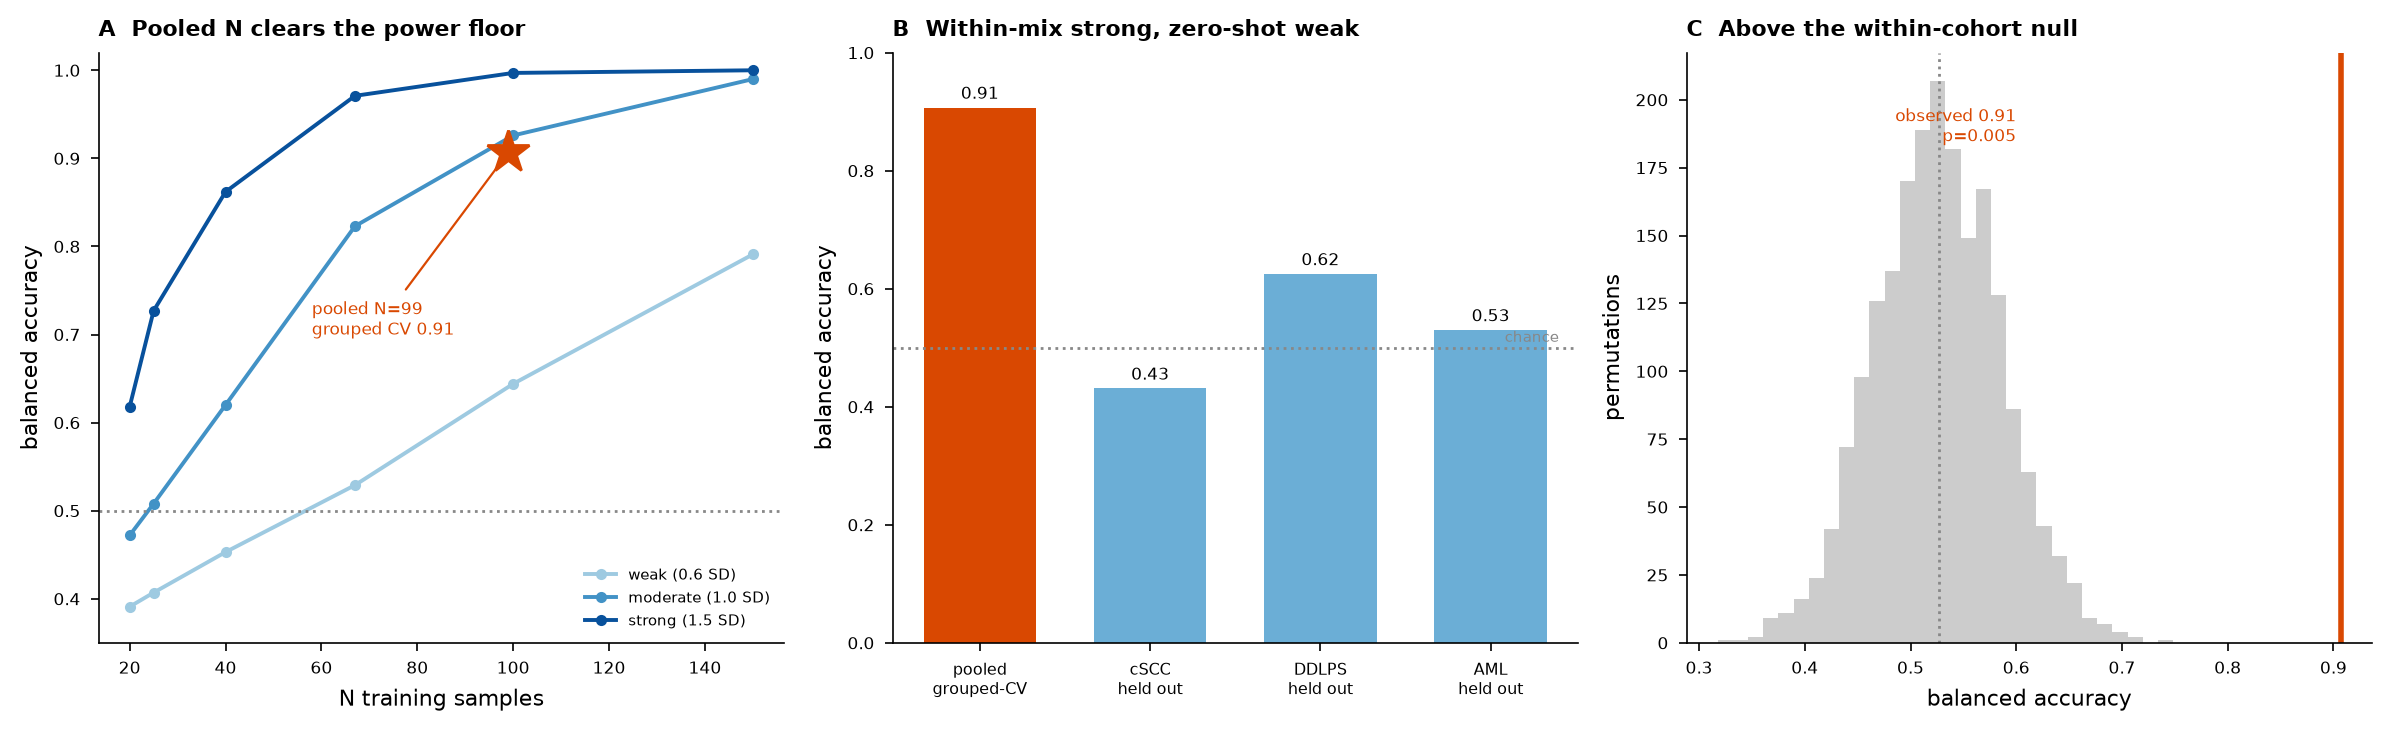
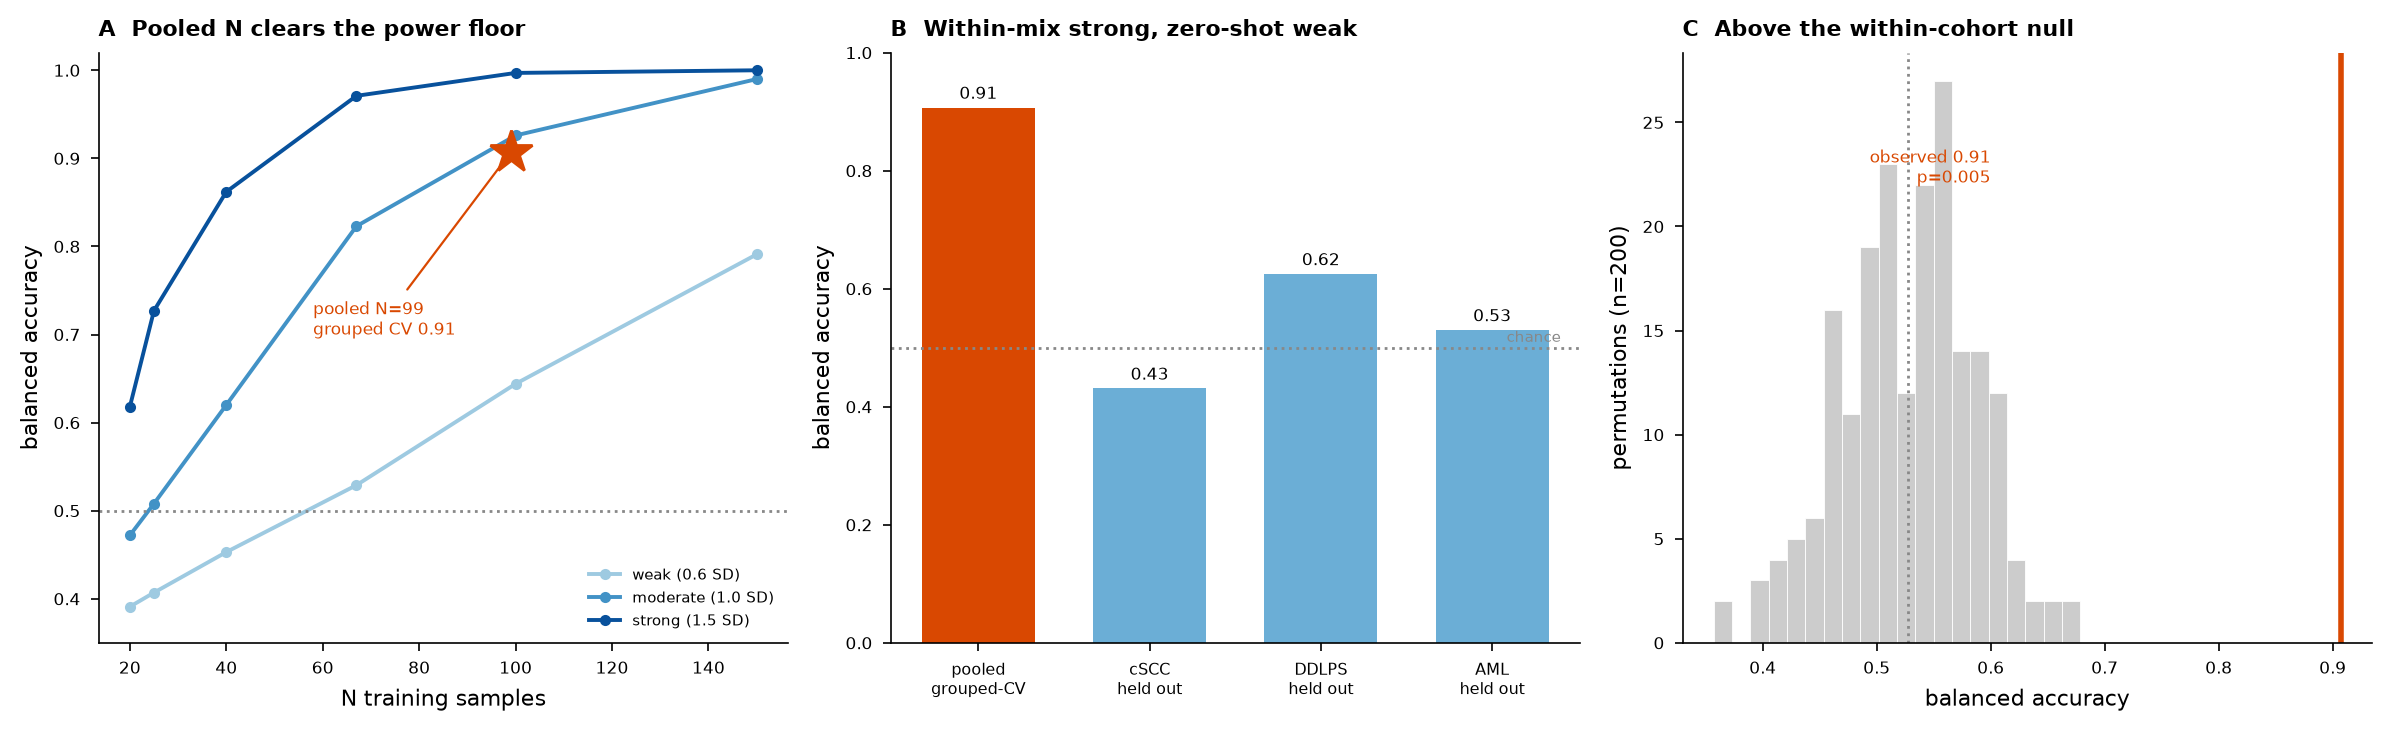
Clonal-trajectory Track 2: fix audit findings (real perm null, standalone script, rounding)
- pooled_classifier.png Panel C now plots the actual 200-sample permutation null
  (was a freshly-sampled synthetic Gaussian; conclusion unchanged, p=0.005 correct).
- pooled_classifier.py runs standalone: removed 'import host', reads committed
  tables/ copies, and fixes a PB/label row-misalignment in load_cohort that the
  saved (but never-executed) version carried. Standalone run reproduces the reported
  numbers exactly (99 clones, grouped-CV bacc 0.907/AUC 0.940, perm p=0.005, LOCO
  cSCC 0.431 / DDLPS 0.625 / AML 0.53). Reported results were always from the correct
  inline run; only the saved script needed the fix.
- investigation_summary.md: DDLPS LOCO 0.63 -> 0.62 to match the 0.625 source.

diff --git a/analysis/clonal_trajectory/code/pooled_classifier.py b/analysis/clonal_trajectory/code/pooled_classifier.py
@@ -15,40 +15,51 @@ Design choices to avoid leakage / cohort-shortcut:
 - Permutation null (labels shuffled within cohort) for significance.
 - Connect balanced accuracy back to the calibrated power grid (N vs effect size).
 """
-import numpy as np, pandas as pd, os, json, host
+import numpy as np, pandas as pd, os, json
 from sklearn.linear_model import LogisticRegression
 from sklearn.model_selection import LeaveOneGroupOut, StratifiedGroupKFold
 from sklearn.metrics import balanced_accuracy_score, roc_auc_score
 from sklearn.preprocessing import StandardScaler
 
+# Standalone-runnable: all inputs are committed under tables/. The class tables were
+# originally read via Claude Science artifact ids; here we resolve them to the
+# repo-committed copies so the script runs with no host dependency.
 TAB="/Users/alex/OrchestratedBiosciences/evolutionary-rna-state/analysis/clonal_trajectory/tables"
+# class-label tables (committed copies)
+CLASS_TABLES={
+ "cSCC":  os.path.join(TAB,"clone_programs_classified.csv"),
+ "DDLPS": os.path.join(TAB,"ddlps_clone_programs_classified.csv"),
+ "AML":   os.path.join(TAB,"aml_clone_programs_classified.csv"),
+}
 
 def load_cohort(name, pb_npy, meta_csv, genes_csv, class_df, ifn_col):
     PB=np.load(pb_npy)
     meta=pd.read_csv(meta_csv)
     genes=pd.read_csv(genes_csv).iloc[:,0].astype(str).values
-    # attach class if meta lacks it
+    # track original PB row index so PB and meta stay aligned after dropping
+    # clones that have no class label (e.g. single-clone patients not in class_df)
+    meta=meta.reset_index(drop=True); meta["_row"]=np.arange(len(meta))
     if "class_k2" not in meta.columns:
         meta=meta.merge(class_df[["clone","class_k2"]], on="clone", how="left")
     # orient immune-hot: the class with higher mean IFN/MHC -> label 1 (hot)
     g=class_df.groupby("class_k2")[ifn_col].mean()
     hot=g.idxmax()
-    meta["immune_hot"]=(meta["class_k2"]==hot).astype(int)
-    meta=meta.dropna(subset=["class_k2"]).reset_index(drop=True)
-    PB=PB[meta.index.values] if len(meta)==PB.shape[0] else PB  # aligned
-    meta["cohort"]=name
-    meta["group"]=name+"::"+meta["patient"].astype(str)
-    return PB, meta, genes
+    meta["immune_hot"]=(meta["class_k2"]==hot).astype("Int64")
+    keep=meta.dropna(subset=["class_k2"]).copy()
+    PB=PB[keep["_row"].values]   # select the SAME rows kept in meta
+    keep["cohort"]=name
+    keep["group"]=name+"::"+keep["patient"].astype(str)
+    return PB, keep.reset_index(drop=True), genes
 
-# --- load three cohorts ---
-cscc_cls=pd.read_csv(host.artifact_path("1fc5f377-4083-427d-a924-e9d69d57b9a7"))
-ddlps_cls=pd.read_csv(host.artifact_path("e1773bac-3f0c-4e09-9079-3ebc0ef5380b"))
-aml_cls=pd.read_csv(host.artifact_path("2cd3adcb-6012-4dce-aac6-d6f6240018ab"))
+# --- load three cohorts (all inputs from committed tables/) ---
+cscc_cls=pd.read_csv(CLASS_TABLES["cSCC"])
+ddlps_cls=pd.read_csv(CLASS_TABLES["DDLPS"])
+aml_cls=pd.read_csv(CLASS_TABLES["AML"])
 
-PBc,Mc,Gc=load_cohort("cSCC","/tmp/cscc/clone_pseudobulk.npy","/tmp/cscc/clone_pseudobulk_meta.csv",
-                      "/tmp/cscc/pb_genes.csv", cscc_cls, "interferon_MHC")
-PBd,Md,Gd=load_cohort("DDLPS","/tmp/ddlps/ddlps_clone_pseudobulk.npy","/tmp/ddlps/ddlps_clone_pseudobulk_meta.csv",
-                      "/tmp/ddlps/ddlps_pb_genes.csv", ddlps_cls, "interferon_MHC")
+PBc,Mc,Gc=load_cohort("cSCC", f"{TAB}/cscc_clone_pseudobulk.npy", f"{TAB}/cscc_clone_pseudobulk_meta.csv",
+                      f"{TAB}/cscc_pb_genes.csv", cscc_cls, "interferon_MHC")
+PBd,Md,Gd=load_cohort("DDLPS", f"{TAB}/ddlps_clone_pseudobulk.npy", f"{TAB}/ddlps_clone_pseudobulk_meta.csv",
+                      f"{TAB}/ddlps_pb_genes.csv", ddlps_cls, "interferon_MHC")
 PBa,Ma,Ga=load_cohort("AML", f"{TAB}/aml_clone_pseudobulk.npy", f"{TAB}/aml_clone_pseudobulk_meta.csv",
                       f"{TAB}/aml_pb_genes.csv", aml_cls, "interferon_MHC")
 
@@ -65,7 +76,7 @@ Xc,Xd,Xa=zc(Xc),zc(Xd),zc(Xa)
 
 X=np.vstack([Xc,Xd,Xa])
 meta=pd.concat([Mc,Md,Ma],ignore_index=True)
-y=meta["immune_hot"].values
+y=meta["immune_hot"].astype(int).values
 groups=meta["group"].values
 cohort=meta["cohort"].values
 print("pooled X:",X.shape,"| y balance:",dict(pd.Series(y).value_counts()))

diff --git a/analysis/clonal_trajectory/reports/investigation_summary.md b/analysis/clonal_trajectory/reports/investigation_summary.md
@@ -52,7 +52,7 @@ Building the DDLPS remedy on real bulk (rather than the controlled cSCC mixture)
 
 Pooling 99 clone-level pseudobulk profiles across all three cohorts (cSCC 25, DDLPS 55, AML 19) brought the supervised test above the power floor for the first time. The target is a harmonized immune-state label (immune-hot vs immune-cold), oriented per-cohort by IFN/MHC because the raw class labels are not consistently oriented across tumor types; features are z-scored within cohort so tissue-baseline offsets cannot be a shortcut.
 - Powered result: grouped-by-patient 5-fold CV reaches balanced accuracy 0.91, AUC 0.94 (N=99), against a within-cohort permutation null of 0.53 (p=0.005), landing on the strong curve of the calibrated power grid. The earlier n=19 DDLPS negative was under-powering, not absence of signal.
-- Transfer limit: leave-one-cohort-out is weak (cSCC 0.43, DDLPS 0.63, AML 0.53). The immune-hot pole is tissue-specific, so supervised recovery works within a tumor type given enough N but does not transfer zero-shot pan-cancer. The immune-hot fraction is nonetheless strikingly consistent (~36%) across all three unrelated tumors. Detail in pooled_classifier_report.md.
+- Transfer limit: leave-one-cohort-out is weak (cSCC 0.43, DDLPS 0.62, AML 0.53). The immune-hot pole is tissue-specific, so supervised recovery works within a tumor type given enough N but does not transfer zero-shot pan-cancer. The immune-hot fraction is nonetheless strikingly consistent (~36%) across all three unrelated tumors. Detail in pooled_classifier_report.md.
 
 ## The honest synthesis
 